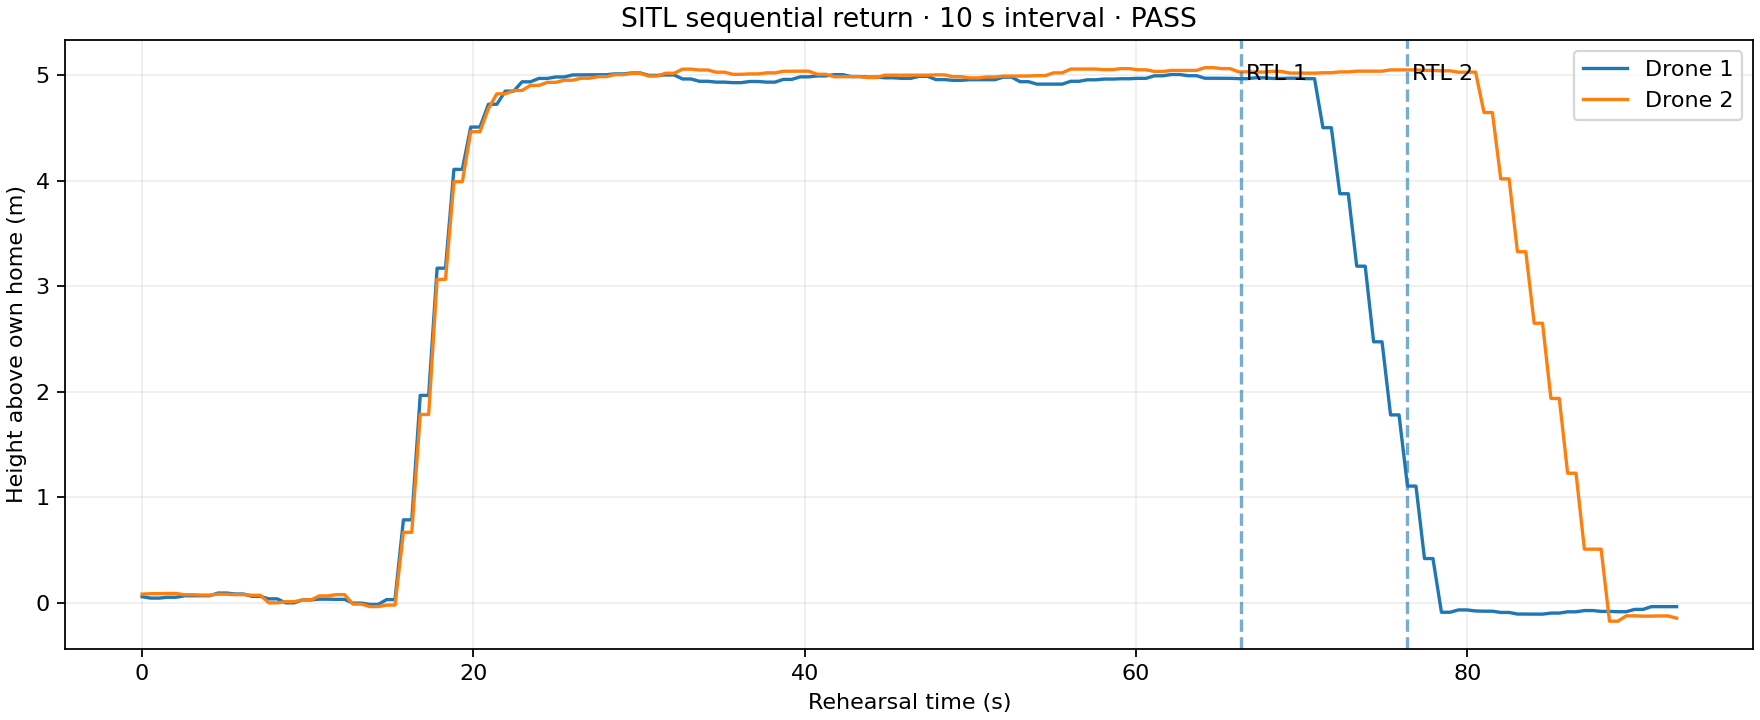
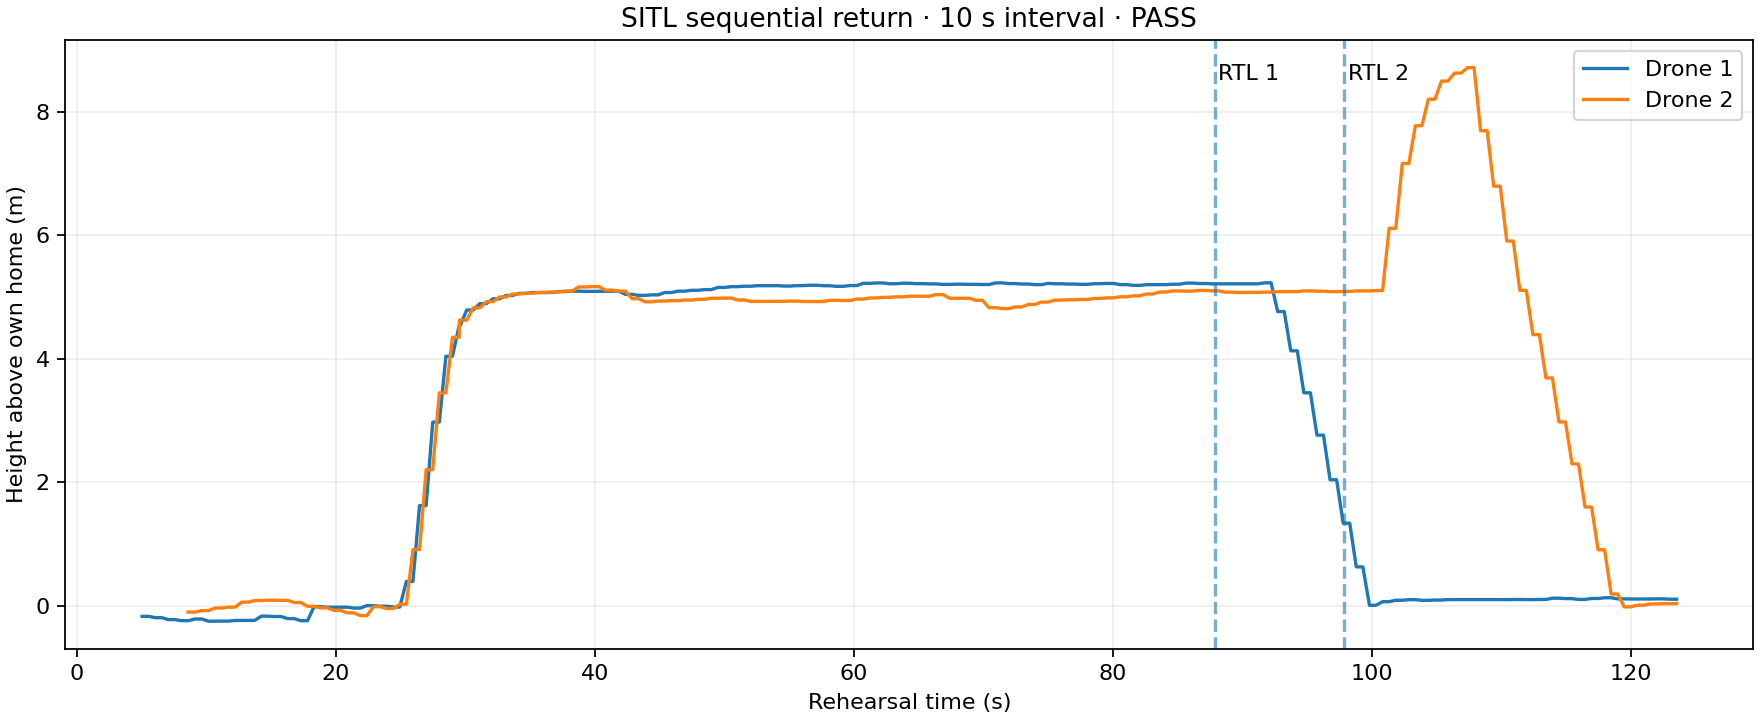
docs(swarm): align recipient help and record selected-return rehearsal

diff --git a/app/dashboard/drone-dashboard/src/components/SwarmOperations.js b/app/dashboard/drone-dashboard/src/components/SwarmOperations.js
@@ -395,7 +395,7 @@ export default function SwarmOperations() {
       {error && <p role="alert">{error}</p>}
       {choosingRecipients && <CommandAircraftPicker selectedIds={commandScope.ids} configuredIds={ids} aircraft={pickerAircraft}
         preset={{ label: 'Cluster', ariaLabel: 'Use entire cluster', ids, Icon: FaLayerGroup, title: 'Use the entire displayed formation' }}
-        showAllConfigured={false} help="Recipients for the next action. Saved roles stay unchanged; required upstream leaders are read-only references. Hold all and Return all recover the entire cluster."
+        showAllConfigured={false} help="To applies to Takeoff, Start and Managed Return. Hold all stops the whole formation. Saved roles stay unchanged."
         onClose={() => setChoosingRecipients(false)} onApply={next => { commandScope.choose(next); setChoosingRecipients(false); }} />}
       <TakeoffDialog open={confirmation?.action === 'takeoff'}
         command={confirmation ? { mission_type: 10, trigger_time: 0, target_drone_ids: confirmation.targets,

diff --git a/tools/probe_swarm_operator_ui.py b/tools/probe_swarm_operator_ui.py
@@ -66,7 +66,7 @@ def main():
                 overflow = client.evaluate('document.documentElement.scrollWidth > innerWidth + 1')
                 assert not overflow, f'{viewport}: horizontal overflow'
                 client.screenshot(args.output_dir / f'{viewport}-operate.png')
-                for label, name in [('Takeoff', 'takeoff'), ('Start Swarm', 'start'), ('Return all', 'return')]:
+                for label, name in [('Takeoff', 'takeoff'), ('Start Swarm', 'start'), ('Managed Return', 'return')]:
                     clicked = client.evaluate(f"(() => {{ const b = [...document.querySelectorAll('.swarm-ops button')].find(b => b.textContent.trim() === {json.dumps(label)}); if (!b || b.disabled) return false; b.click(); return true; }})()")
                     assert clicked, f'{label}: control unavailable'
                     time.sleep(0.3)

diff --git a/docs/features/smart-swarm.md b/docs/features/smart-swarm.md
@@ -218,6 +218,18 @@ This check repeats before each RTL and does not replace flight-path separation.
 Measured SITL example: the dashed lines mark RTL submissions, not landing
 clearance. Height is relative to each aircraft's own home. This run illustrates
 the queue; it does not prove separation for other homes, heights or return paths.
+The rehearsal selected two flying aircraft with a third configured but offline:
+Takeoff, following, Stop/Start and selected Managed Return completed without
+changing the saved formation. Returning only the leader while its follower was
+active was rejected before Hold. To repeat this in an isolated SITL deployment:
+
+```bash
+python3 tools/validate_sequential_return_runtime.py \
+  --base-url http://127.0.0.1:5000 --drone-ids 1 2 --delay-sec 10 \
+  --exercise-operator-flow --check-partial-leader-return --output-dir /tmp/return-rehearsal
+```
+
+This validator refuses REAL mode and never changes saved roles or offsets.
 
 ### Hold Swarm
 
